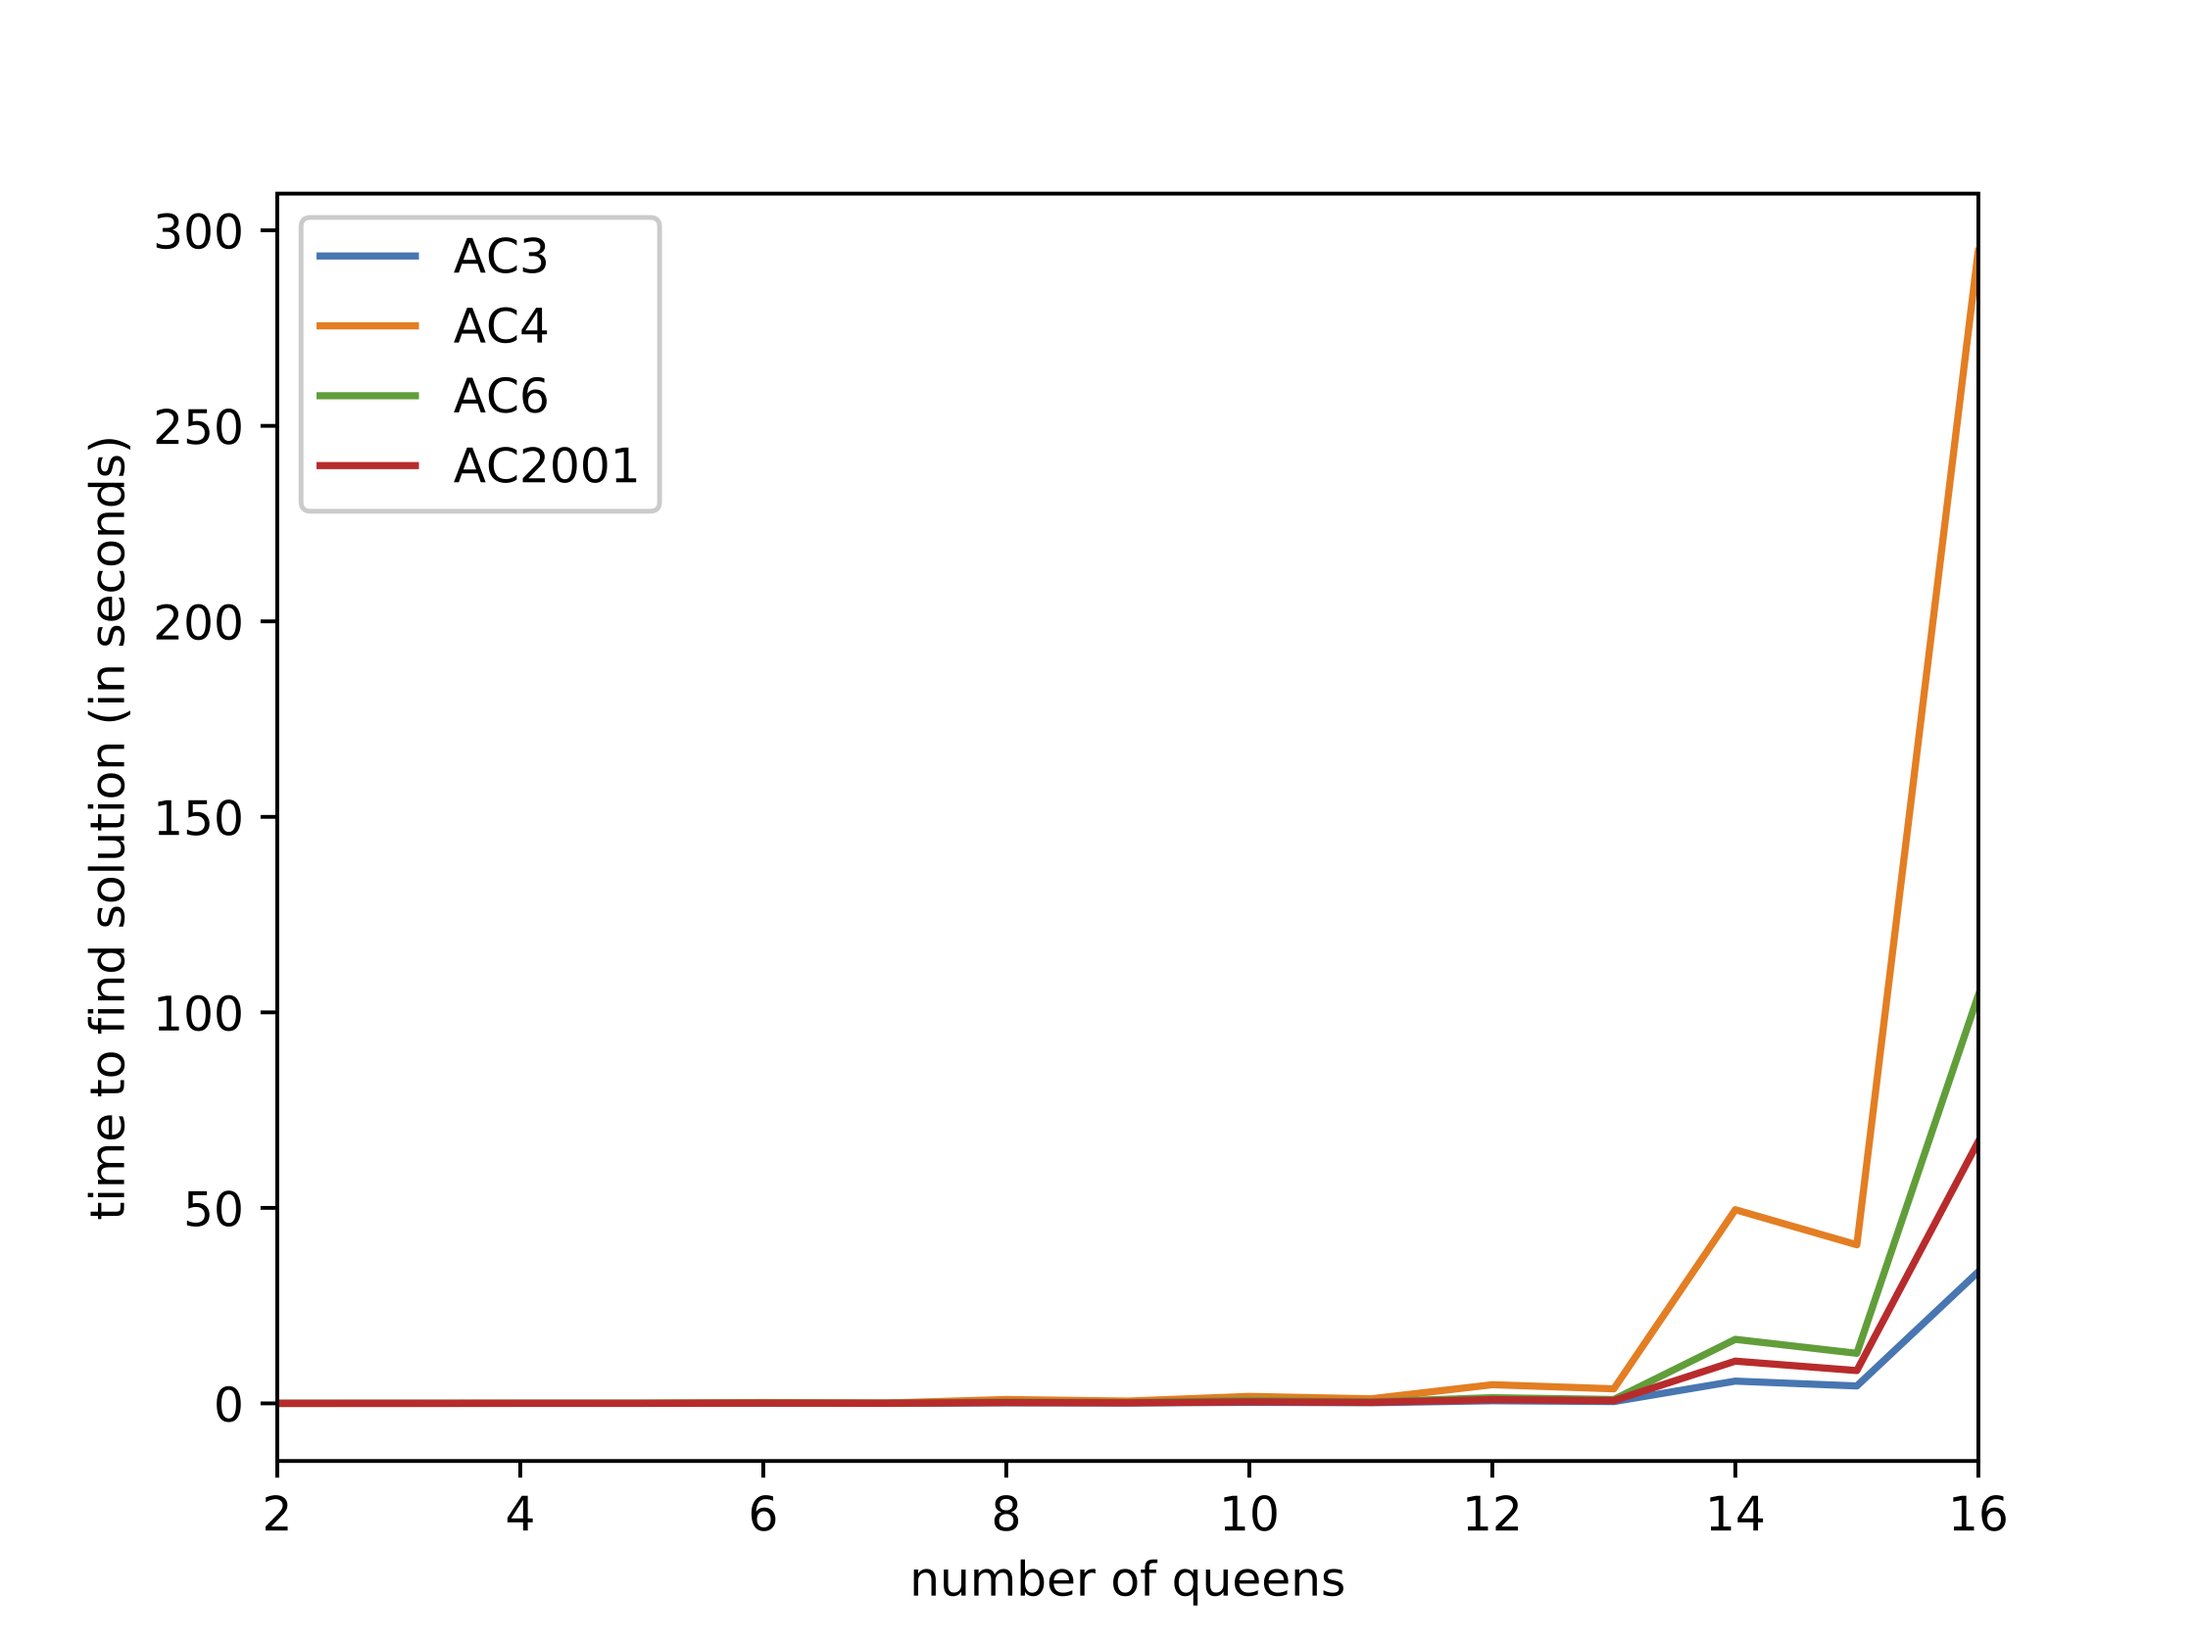
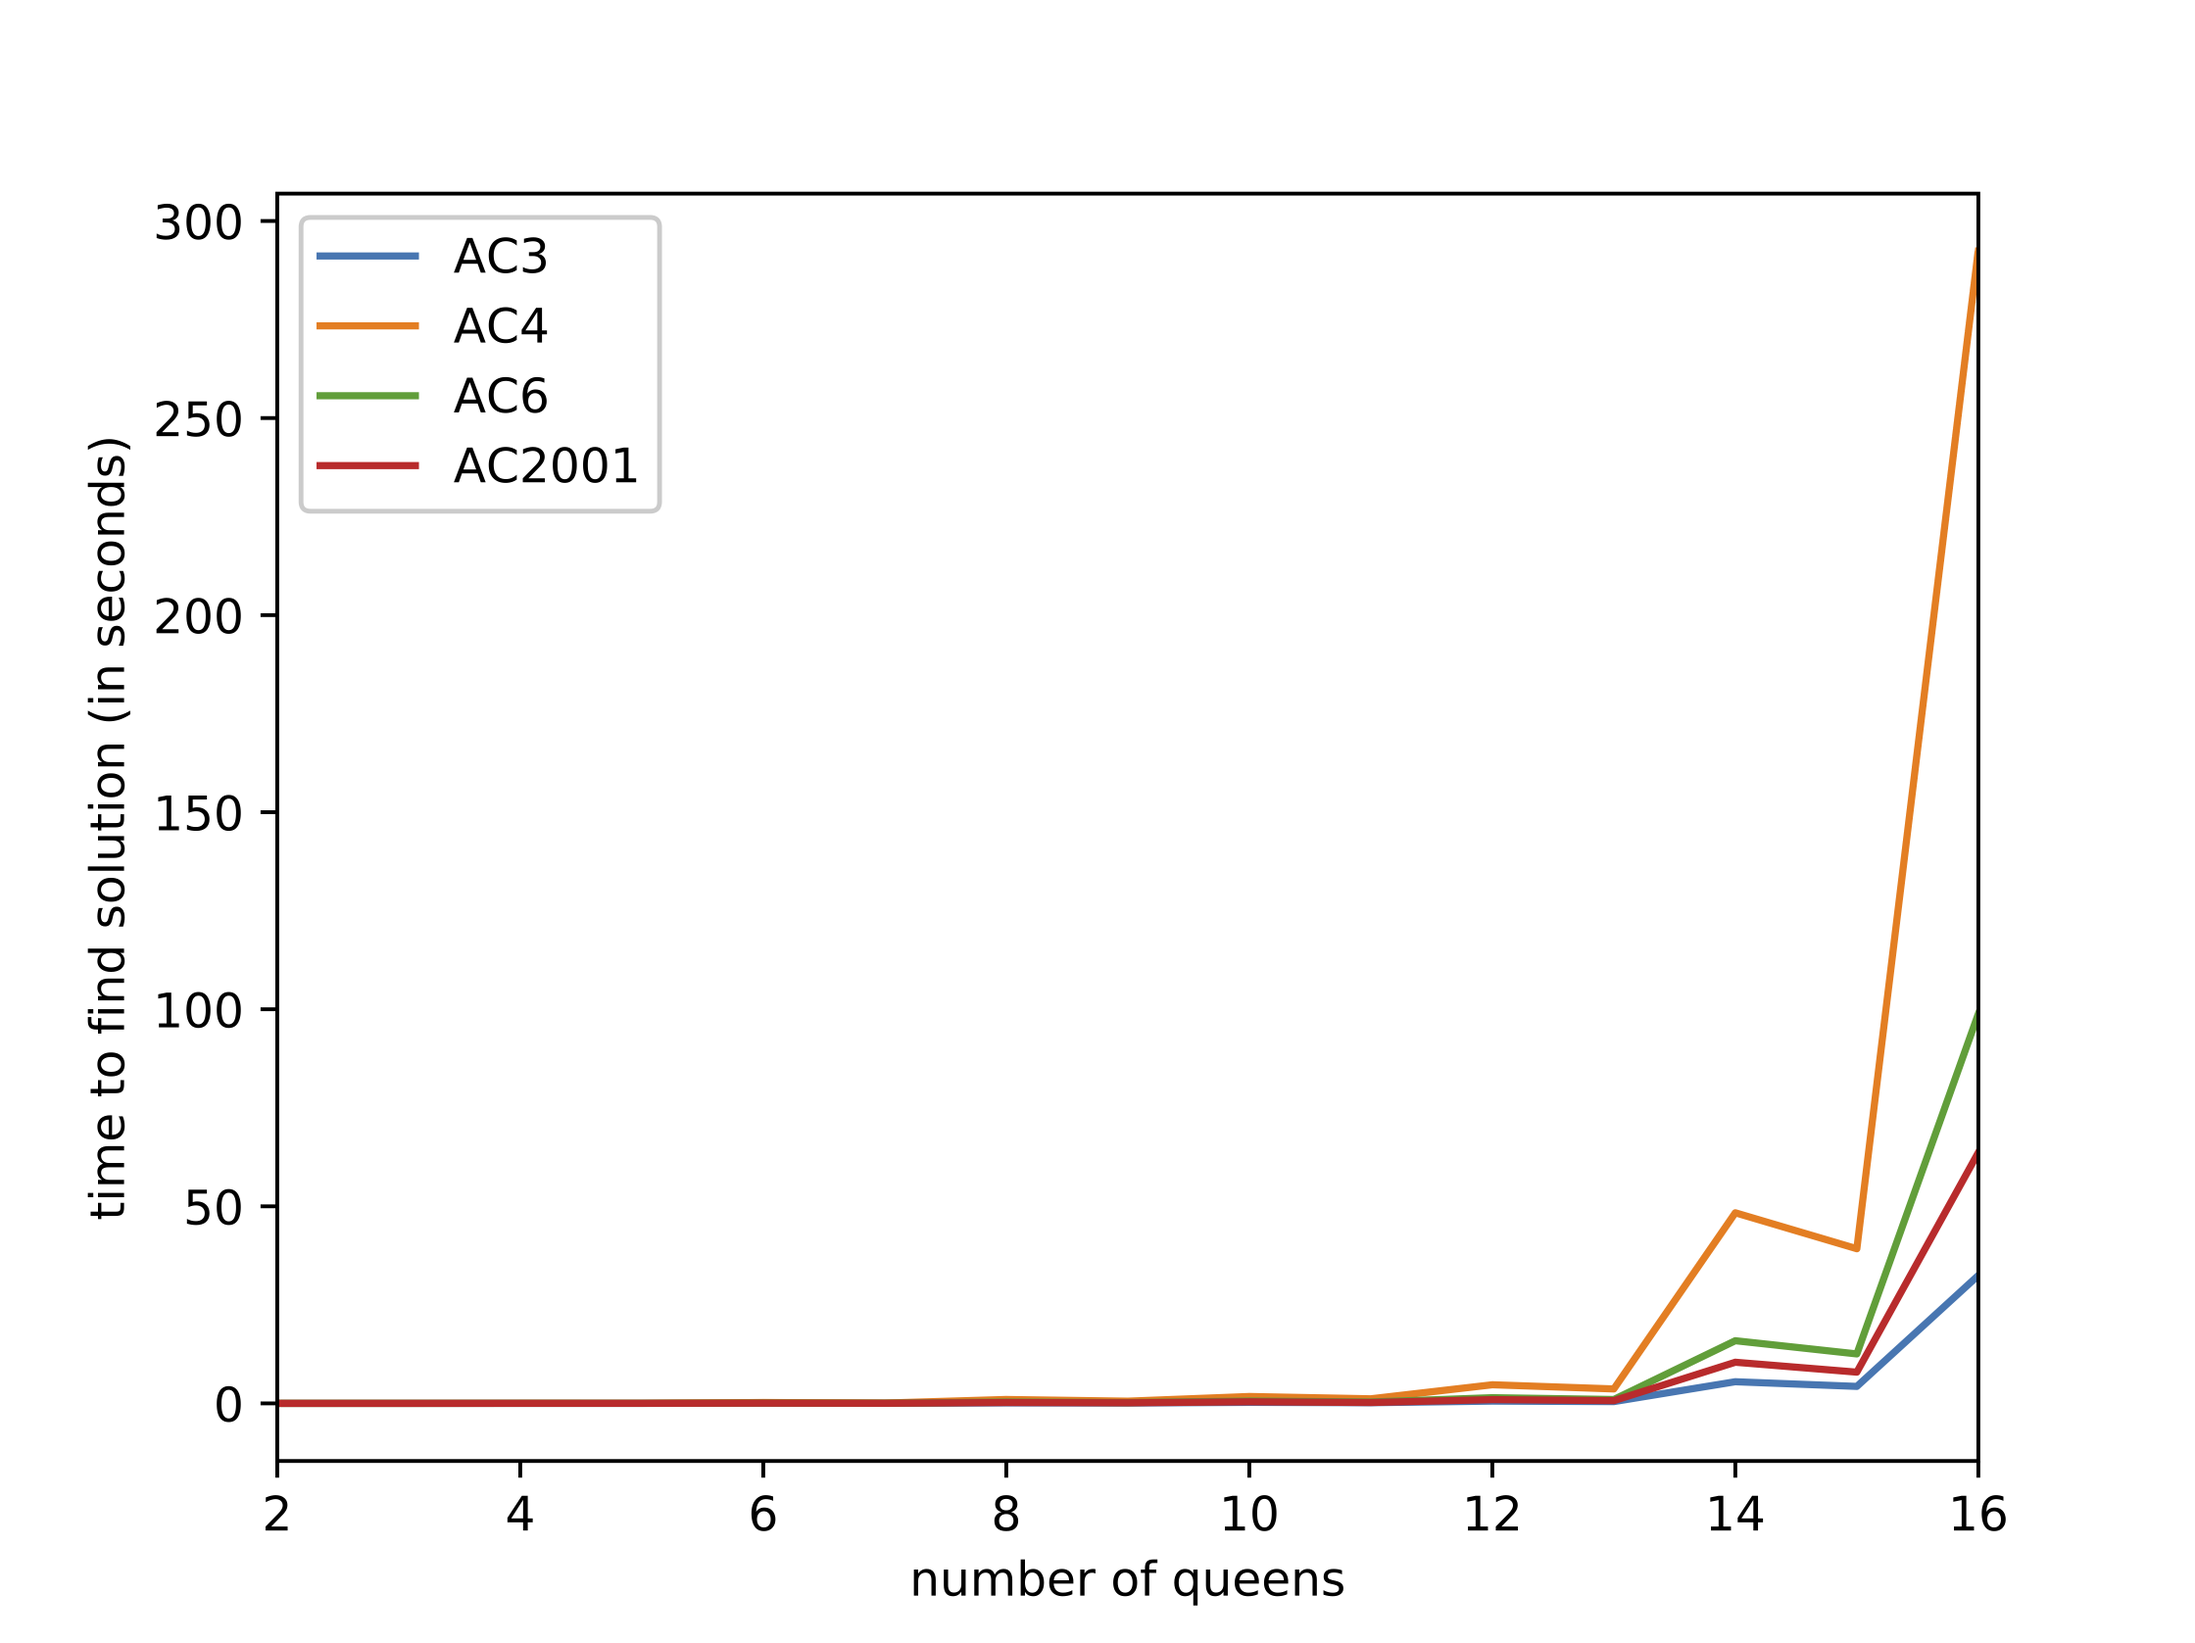
Final commit

diff --git a/src/Main.py b/src/Main.py
@@ -9,7 +9,7 @@ from src.Model import char_range
 if __name__ == '__main__':
     for x in [3, 4, 6, 2001]:
         m = Model(x)
-        n = 8
+        n = 10
         for i in range(n):
             m.add_var(list(range(n)))
         for i in range((n-1)):

diff --git a/src/Measurements.py b/src/Measurements.py
@@ -8,7 +8,7 @@ import pandas as pd
 
 
 if __name__ == '__main__':
-    upper_bound = 20
+    upper_bound = 16
     measure = np.zeros((4, upper_bound-1)).tolist()
     for n in range(2, upper_bound+1):
         acs = [3, 4, 6, 2001]
